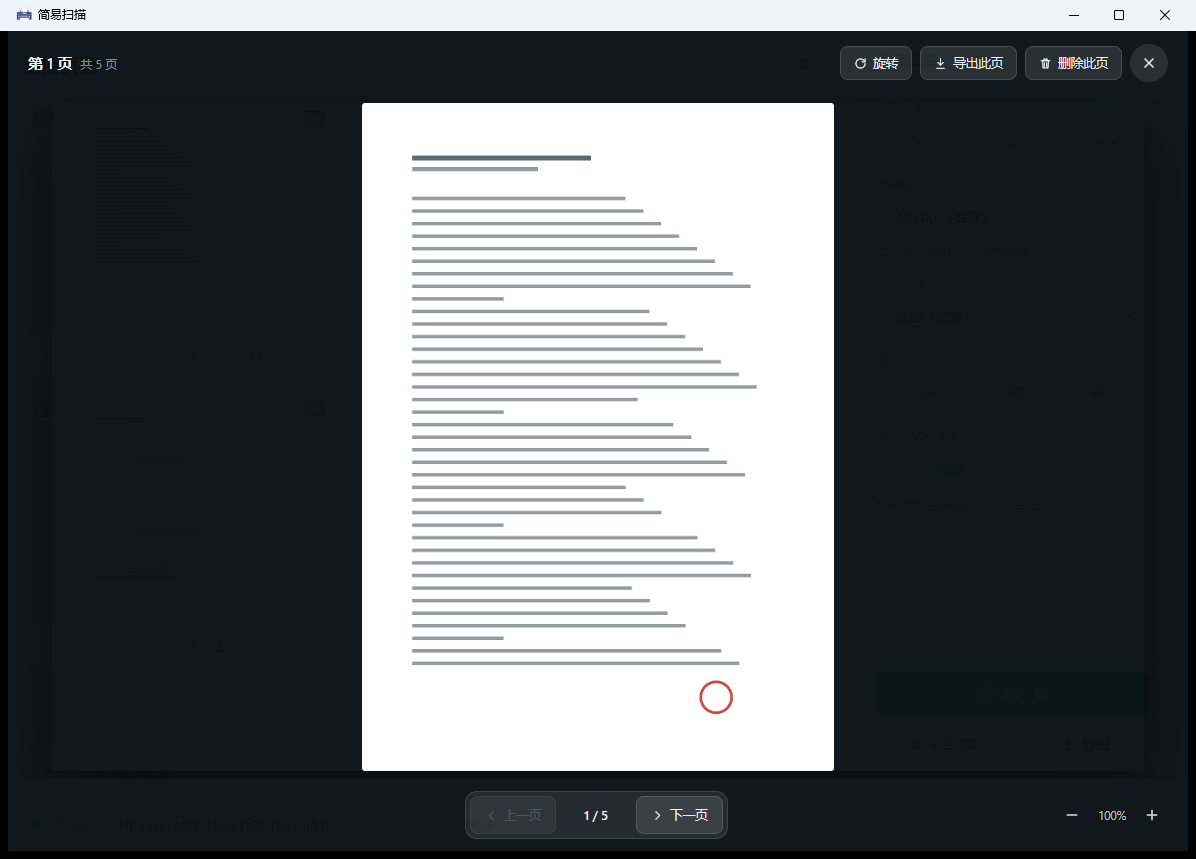
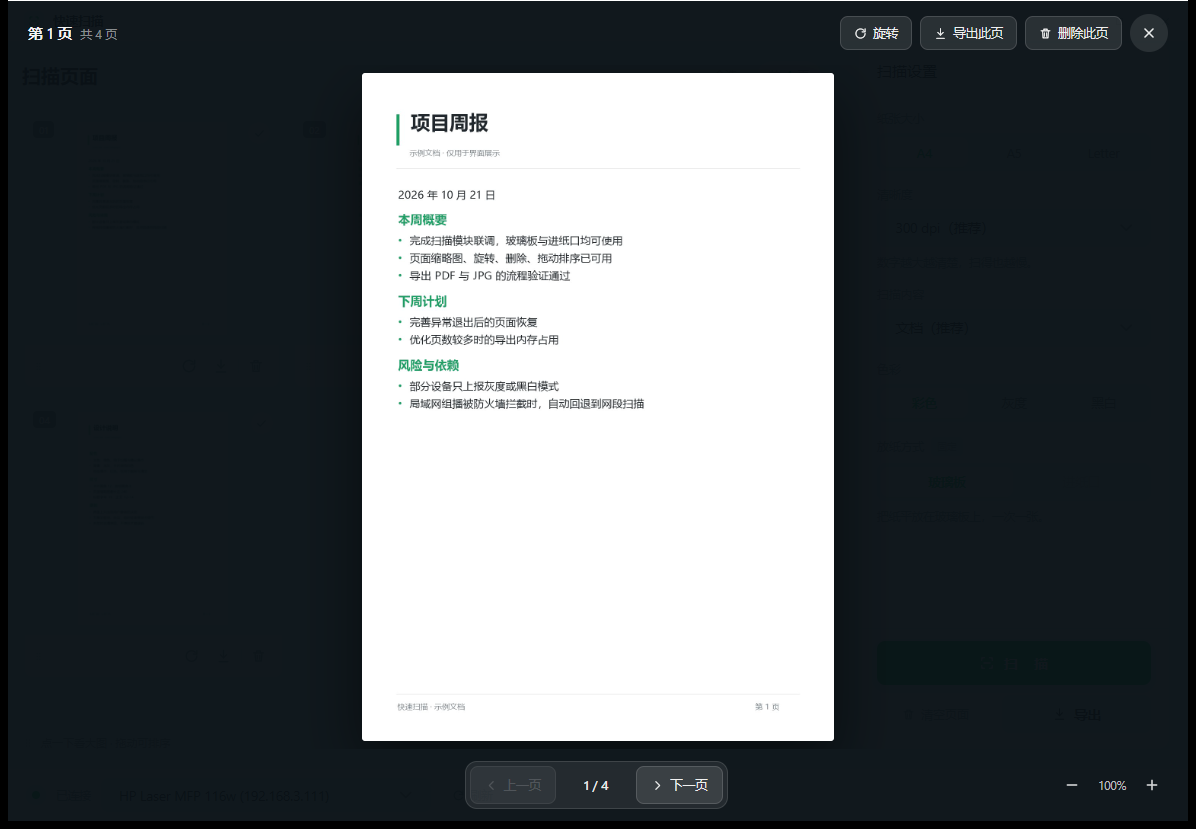
重写 README 并更新界面截图
* 精简文档结构，补充崩溃恢复说明
* 换成当前「快速扫描」界面的主界面与灯箱截图

diff --git a/README.md b/README.md
@@ -1,27 +1,33 @@
-# quick-scan
+# 快速扫描（quick-scan）
 
-一个快速的 Windows 扫描工具：放纸 → 扫描 → 导出 PDF / JPG。
+一个 Windows 上的局域网扫描工具：放纸 → 扫描 → 导出 PDF / JPG。
+
+不用装厂商驱动，打印机和电脑在同一个 Wi-Fi / 网段即可。
 
 ![主界面](docs/screenshot.png)
 
-扫描走局域网 eSCL（AirPrint 同款协议），不用装厂商驱动。打印机和电脑连同一个 Wi-Fi / 网段即可。
-
 ## 功能
 
-- 自动发现局域网里的扫描仪，也能记住上次用的那台
-- 玻璃板单张扫描，或进纸口整叠自动逐张扫
-- 页面管理：点开大图、翻页、旋转、删除、拖动排序
-- 纸张大小、清晰度、色彩、扫描内容按设备能力自动切换
+- 自动发现并记住局域网里的扫描仪
+- 玻璃板单张扫描，或进纸口整叠逐张扫描
+- 看大图、缩放、旋转、删除、拖动排序、勾选导出
+- 纸张大小、清晰度、色彩、扫描内容按设备能力自动适配
 - 导出成一个 PDF 或每页一张 JPG，文件名可用识别出的标题
+- 意外退出后，下次启动可以恢复上次未导出的页面
 
 ![看大图](docs/screenshot-lightbox.png)
 
 ## 使用
 
 1. 打开 `quick-scan.exe`
-2. 在底部选择打印机（状态点变绿表示连得上）
+2. 在底部选择打印机，状态点变绿表示连得上
 3. 把纸放好，点右侧「扫描」
 4. 扫完点「导出」，选 PDF 或图片
+
+## 崩溃恢复
+
+扫描页放在 `%TEMP%\quick-scan-session\`。正常退出会清理；程序崩溃或被杀掉时，
+下次启动会提示「发现上次未完成的扫描」，可以恢复或丢弃。
 
 ## 运行要求
 
@@ -29,22 +35,17 @@ Windows 10 / 11（64 位）。打印机需要支持 eSCL / AirPrint 扫描，并
 
 ## 构建
 
-需要 Go 1.27+、Rust（OCR 静态库）、LLVM `clang` 和 binutils `windres`。
+需要 Go 1.27+、Rust、LLVM `clang` 和 `windres`。
 
 ```powershell
-just build      # 产物：quick-scan.exe
-just upx        # 可选：UPX 压缩发布版（dist\quick-scan.exe，体积约一半，启动多约 0.2 秒）
-just test       # 单测，不需要真机
-just run        # 构建并启动
+just build   # 产物：quick-scan.exe
+just test    # 单测，不需要真机
+just run     # 构建并启动
 ```
-
-程序不写注册表、不建配置目录。扫描页放在 `%TEMP%\quick-scan-session\`，正常退出时清理；
-异常退出会留下，下次启动提示恢复或丢弃。
 
 ## 目录
 
 - `cmd/quick-scan/` 程序入口、窗口生命周期
 - `internal/ui/` 界面与交互
 - `internal/scanner/` eSCL 发现、扫描、导出、OCR
-- `internal/platform/` 临时目录、内嵌模型、控制台脱离
-
+- `internal/platform/` 会话目录、内嵌模型、控制台脱离
